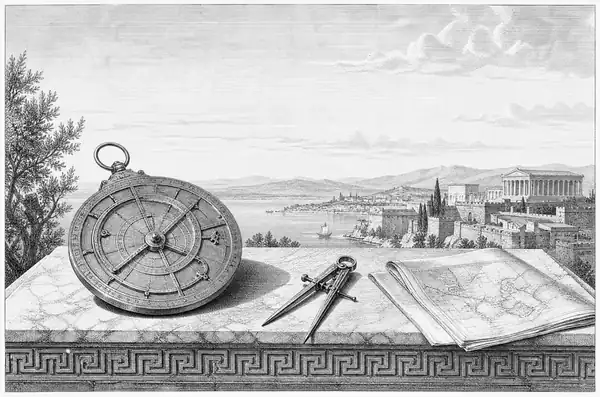
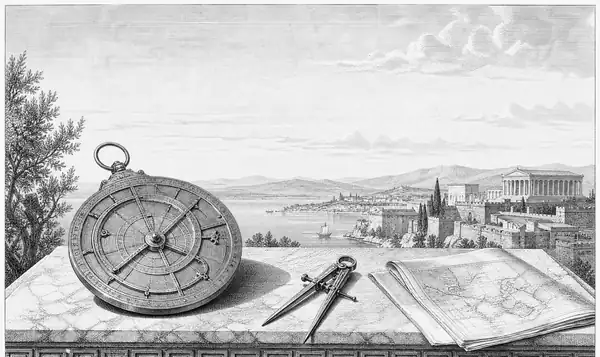
Pass 6: finish work from both pass 5 reviews; snapshot

diff --git a/site/snapshots/pass-06/index.html b/site/snapshots/pass-06/index.html
@@ -12,16 +12,16 @@
 <meta name="twitter:site" content="@mbsdot">
 <meta name="theme-color" content="#F4F0E8" media="(prefers-color-scheme: light)">
 <meta name="theme-color" content="#15130F" media="(prefers-color-scheme: dark)">
-<link rel="icon" href="assets/emblems/mark.webp" type="image/webp">
-<link rel="preload" as="font" type="font/woff2" href="assets/fonts/Fraunces-var.woff2" crossorigin>
-<link rel="preload" as="font" type="font/woff2" href="assets/fonts/InstrumentSans-var.woff2" crossorigin>
-<style>@font-face{font-family:'Fraunces';font-style:normal;font-weight:300 700;font-display:swap;src:url(assets/fonts/Fraunces-var.woff2) format('woff2')}
-@font-face{font-family:'Fraunces';font-style:italic;font-weight:300 700;font-display:swap;src:url(assets/fonts/Fraunces-Italic-var.woff2) format('woff2')}
-@font-face{font-family:'Instrument Sans';font-style:normal;font-weight:400 700;font-display:swap;src:url(assets/fonts/InstrumentSans-var.woff2) format('woff2')}
-@font-face{font-family:'Instrument Sans';font-style:italic;font-weight:400 700;font-display:swap;src:url(assets/fonts/InstrumentSans-Italic-var.woff2) format('woff2')}
-@font-face{font-family:'JetBrains Mono';font-style:normal;font-weight:100 800;font-display:swap;src:url(assets/fonts/JetBrainsMono-var.woff2) format('woff2')}</style>
-<link rel="preload" as="image" href="assets/emblems/mark.webp" fetchpriority="high">
-<link rel="preload" as="image" href="assets/plates/hero.webp" imagesrcset="assets/plates/hero-600.webp 600w, assets/plates/hero.webp 900w" imagesizes="(max-width: 759px) 110vw, 760px">
+<link rel="icon" href="../../assets/emblems/mark.webp" type="image/webp">
+<link rel="preload" as="font" type="font/woff2" href="../../assets/fonts/Fraunces-var.woff2" crossorigin>
+<link rel="preload" as="font" type="font/woff2" href="../../assets/fonts/InstrumentSans-var.woff2" crossorigin>
+<style>@font-face{font-family:'Fraunces';font-style:normal;font-weight:300 700;font-display:swap;src:url(../../assets/fonts/Fraunces-var.woff2) format('woff2')}
+@font-face{font-family:'Fraunces';font-style:italic;font-weight:300 700;font-display:swap;src:url(../../assets/fonts/Fraunces-Italic-var.woff2) format('woff2')}
+@font-face{font-family:'Instrument Sans';font-style:normal;font-weight:400 700;font-display:swap;src:url(../../assets/fonts/InstrumentSans-var.woff2) format('woff2')}
+@font-face{font-family:'Instrument Sans';font-style:italic;font-weight:400 700;font-display:swap;src:url(../../assets/fonts/InstrumentSans-Italic-var.woff2) format('woff2')}
+@font-face{font-family:'JetBrains Mono';font-style:normal;font-weight:100 800;font-display:swap;src:url(../../assets/fonts/JetBrainsMono-var.woff2) format('woff2')}</style>
+<link rel="preload" as="image" href="../../assets/emblems/mark.webp" fetchpriority="high">
+<link rel="preload" as="image" href="../../assets/plates/hero.webp" imagesrcset="../../assets/plates/hero-600.webp 600w, ../../assets/plates/hero.webp 900w" imagesizes="(max-width: 759px) 110vw, 760px">
 <link rel="stylesheet" href="styles.css">
 <!-- source: github.com/mbs5/portfolio -->
 </head>
@@ -42,12 +42,12 @@
 
 <main id="top">
 <section class="hero plate-sec" data-plate="hero">
-  <img class="plate" src="assets/plates/hero.webp" srcset="assets/plates/hero-600.webp 600w, assets/plates/hero.webp 900w" sizes="(max-width: 759px) 110vw, 760px" width="900" height="536" alt="" aria-hidden="true" decoding="async">
+  <img class="plate" src="../../assets/plates/hero.webp" srcset="../../assets/plates/hero-600.webp 600w, ../../assets/plates/hero.webp 900w" sizes="(max-width: 759px) 110vw, 760px" width="900" height="536" alt="" aria-hidden="true" decoding="async">
   <div class="wrap">
     <div class="hero-grid">
       <div>
         <div class="namerow">
-          <div class="emblem emblem-s" aria-hidden="true"><pre></pre><img src="assets/emblems/mark.webp" width="560" height="560" alt="" fetchpriority="high" decoding="async"></div>
+          <div class="emblem emblem-s" aria-hidden="true"><pre></pre><img src="../../assets/emblems/mark.webp" width="560" height="560" alt="" fetchpriority="high" decoding="async"></div>
           <span class="k name">Muhammad Bin Sohail</span>
         </div>
         <h1>I build the system <em>once</em>, then let brands, farms and families wear&nbsp;it.</h1>
@@ -58,14 +58,14 @@
         </div>
         <p class="status"><b>Now:</b> open to product engineering roles in commerce, infrastructure and applied AI.</p>
       </div>
-      <div class="emblem emblem-l" aria-hidden="true"><pre></pre><img src="assets/emblems/mark.webp" width="560" height="560" alt="" decoding="async"></div>
+      <div class="emblem emblem-l" aria-hidden="true"><pre></pre><img src="../../assets/emblems/mark.webp" width="560" height="560" alt="" decoding="async"></div>
     </div>
   </div>
 </section>
 
 
 <section class="sec plate-sec" id="peptiful" data-plate="peptiful">
-  <img class="plate" src="assets/plates/peptiful.webp" width="900" height="596" alt="" aria-hidden="true" loading="lazy" decoding="async">
+  <img class="plate" src="../../assets/plates/peptiful.webp" width="900" height="596" alt="" aria-hidden="true" loading="lazy" decoding="async">
   <div class="wrap">
     <div class="sec-head reveal"><span class="k">01</span><h2>Peptiful</h2></div>
     <div class="feature reveal">
@@ -105,7 +105,7 @@
 </section>
 
 <section class="sec plate-sec" id="storekit" data-plate="storekit">
-  <img class="plate" src="assets/plates/storekit.webp" width="900" height="596" alt="" aria-hidden="true" loading="lazy" decoding="async">
+  <img class="plate" src="../../assets/plates/storekit.webp" width="900" height="596" alt="" aria-hidden="true" loading="lazy" decoding="async">
   <div class="wrap">
     <div class="sec-head reveal"><span class="k">02</span><h2>StoreKit</h2></div>
     <div class="feature reveal">
@@ -129,7 +129,7 @@
           <a role="listitem" class="sw" style="--c:#81ae23;--g:#0e0e0e" href="https://nucleus-peptides-two.vercel.app" target="_blank" rel="noopener"><span class="chip"><i></i></span><b>Nucleus <span class="arr">↗</span></b><small>lime on black</small></a>
           <a role="listitem" class="sw" style="--c:#91285e;--g:#232326" href="https://vector-peptides-beta.vercel.app" target="_blank" rel="noopener"><span class="chip"><i></i></span><b>Vector <span class="arr">↗</span></b><small>magenta on graphite</small></a>
         </div>
-        <div class="vials" aria-label="Three of the 114 logo-locked product renders"><img src="assets/work/vials/vanta.webp" width="640" height="640" alt="Vanta Bio vial render with the brand mark on the glass" loading="lazy" decoding="async"><img src="assets/work/vials/caldera.webp" width="640" height="640" alt="Caldera Peptides vial render" loading="lazy" decoding="async"><img src="assets/work/vials/nucleus.webp" width="640" height="640" alt="Nucleus vial render" loading="lazy" decoding="async"></div>
+        <div class="vials" aria-label="Three of the 114 logo-locked product renders"><img src="../../assets/work/vials/vanta.webp" width="640" height="640" alt="Vanta Bio vial render with the brand mark on the glass" loading="lazy" decoding="async"><img src="../../assets/work/vials/caldera.webp" width="640" height="640" alt="Caldera Peptides vial render" loading="lazy" decoding="async"><img src="../../assets/work/vials/nucleus.webp" width="640" height="640" alt="Nucleus vial render" loading="lazy" decoding="async"></div>
         <pre class="tokens" aria-label="Token contract excerpt"><b>/* @storekit/ui tokens.css, the contract */</b>
 :root {
   --c-brand-500: <span class="v">39 73 203</span>;   <b>/* primary action */</b>
@@ -144,7 +144,7 @@
 </section>
 
 <section class="sec plate-sec" id="operations" data-plate="operations">
-  <img class="plate" src="assets/plates/operations.webp" width="900" height="596" alt="" aria-hidden="true" loading="lazy" decoding="async">
+  <img class="plate" src="../../assets/plates/operations.webp" width="900" height="596" alt="" aria-hidden="true" loading="lazy" decoding="async">
   <div class="wrap">
     <div class="sec-head reveal"><span class="k">03</span><h2>Operations that run themselves</h2></div>
     <div class="feature reveal">
@@ -196,7 +196,7 @@
 </section>
 
 <section class="sec plate-sec" id="healthpedia" data-plate="healthpedia">
-  <img class="plate" src="assets/plates/healthpedia.webp" width="900" height="596" alt="" aria-hidden="true" loading="lazy" decoding="async">
+  <img class="plate" src="../../assets/plates/healthpedia.webp" width="900" height="596" alt="" aria-hidden="true" loading="lazy" decoding="async">
   <div class="wrap">
     <div class="sec-head reveal"><span class="k">04</span><h2>Healthpedia</h2></div>
     <div class="feature reveal">
@@ -232,7 +232,7 @@
 </section>
 
 <section class="sec plate-sec" id="more" data-plate="morework">
-  <img class="plate" src="assets/plates/morework.webp" width="900" height="596" alt="" aria-hidden="true" loading="lazy" decoding="async">
+  <img class="plate" src="../../assets/plates/morework.webp" width="900" height="596" alt="" aria-hidden="true" loading="lazy" decoding="async">
   <div class="wrap">
     <div class="sec-head reveal"><span class="k">05</span><h2>More work</h2></div>
     <ul class="list reveal">
@@ -257,7 +257,7 @@
 </section>
 
 <section class="sec plate-sec" id="how" data-plate="how">
-  <img class="plate" src="assets/plates/how.webp" width="900" height="596" alt="" aria-hidden="true" loading="lazy" decoding="async">
+  <img class="plate" src="../../assets/plates/how.webp" width="900" height="596" alt="" aria-hidden="true" loading="lazy" decoding="async">
   <div class="wrap">
     <div class="sec-head reveal"><span class="k">06</span><h2>How I work</h2></div>
     <div class="how-grid reveal">
@@ -271,7 +271,7 @@
 </main>
 
 <footer class="contact plate-sec" id="contact" data-plate="contact">
-  <img class="plate" src="assets/plates/contact.webp" width="900" height="596" alt="" aria-hidden="true" loading="lazy" decoding="async">
+  <img class="plate" src="../../assets/plates/contact.webp" width="900" height="596" alt="" aria-hidden="true" loading="lazy" decoding="async">
   <div class="wrap">
     <div class="sec-head reveal"><span class="k">07</span><h2>Contact</h2></div>
     <h2 class="ch reveal">If you’re building commerce infrastructure, or a business that should run itself, write to me.</h2>

diff --git a/site/snapshots/pass-06/app.js b/site/snapshots/pass-06/app.js
@@ -1,0 +1,55 @@
+/* portfolio behaviour: emblem engraving, expandable cards, copy email, mobile CTA, reveal fallback */
+(function(){
+  const $=(s,r=document)=>r.querySelector(s), $$=(s,r=document)=>[...r.querySelectorAll(s)];
+  const reduced=matchMedia('(prefers-reduced-motion: reduce)').matches;
+
+  /* 1. Braille engraving that resolves into the mark (desktop only) */
+  const em=[...document.querySelectorAll('.emblem')].find(e=>getComputedStyle(e).display!=='none');
+  document.querySelectorAll('.emblem').forEach(e=>{if(e!==em)e.classList.add('resolved');});
+  if(em){
+    const img=$('img',em), pre=$('pre',em);
+    const run=()=>{
+      if(reduced||em.classList.contains('emblem-s')){em.classList.add('resolved');return;}
+      try{
+        const cols=58, w=cols*2, h=cols*4;
+        const c=document.createElement('canvas'); c.width=w; c.height=h;
+        const ctx=c.getContext('2d',{willReadFrequently:true}); ctx.fillStyle='#fff'; ctx.fillRect(0,0,w,h); ctx.drawImage(img,0,0,w,h);
+        const d=ctx.getImageData(0,0,w,h).data, lum=new Float32Array(w*h);
+        for(let i=0;i<w*h;i++){const l=(.2126*d[i*4]+.7152*d[i*4+1]+.0722*d[i*4+2])/255; lum[i]=Math.min(1,Math.max(0,(l-.5)*1.25+.5));}
+        for(let y=0;y<h;y++)for(let x=0;x<w;x++){const i=y*w+x,o=lum[i],q=o<.5?0:1;lum[i]=q;const e=(o-q)/8;for(const [dx,dy] of [[1,0],[2,0],[-1,1],[0,1],[1,1],[0,2]]){const nx=x+dx,ny=y+dy;if(nx>=0&&nx<w&&ny<h)lum[ny*w+nx]+=e;}}
+        const BITS=[[1,8],[2,16],[4,32],[64,128]]; let s='';
+        for(let y=0;y<h;y+=4){for(let x=0;x<w;x+=2){let code=0x2800;for(let r=0;r<4;r++)for(let k=0;k<2;k++)if(lum[(y+r)*w+x+k]<.5)code|=BITS[r][k];s+=String.fromCharCode(code);}s+='\n';}
+        pre.textContent=s;
+        const fit=()=>{const box=em.getBoundingClientRect().width; pre.style.fontSize='10px'; const probe=document.createElement('span'); probe.textContent='⠿'.repeat(cols); probe.style.cssText='position:absolute;visibility:hidden;white-space:pre;font:inherit;font-size:10px'; pre.appendChild(probe); const adv=probe.getBoundingClientRect().width/cols/10; probe.remove(); const fs=box/cols/(adv||0.6); pre.style.fontSize=fs+'px'; pre.style.lineHeight=(box/(h/4))/fs+'';};
+        fit(); addEventListener('resize',fit,{passive:true});
+        setTimeout(()=>em.classList.add('resolved'),1500);
+      }catch(e){em.classList.add('resolved');}
+    };
+    if(img.complete&&img.naturalWidth)run(); else img.addEventListener('load',run,{once:true}); img.addEventListener('error',()=>em.classList.add('resolved'),{once:true});
+  }
+
+  /* 2. Expandable cards (APG accordion, multi-open, hash deep links) */
+  const setOpen=(card,on,push=true)=>{const btn=$('h3 button',card), panel=$('.panel',card); btn.setAttribute('aria-expanded',on);
+    if(on){panel.hidden=false; requestAnimationFrame(()=>panel.setAttribute('data-open',''));}
+    else{panel.removeAttribute('data-open'); const done=()=>{if(btn.getAttribute('aria-expanded')!=='true')panel.hidden=true;}; reduced?done():panel.addEventListener('transitionend',done,{once:true});}
+    if(push)history.replaceState(null,'',on?'#'+card.id:location.pathname+location.search);};
+  $$('.card').forEach(card=>{const btn=$('h3 button',card); btn.addEventListener('click',()=>setOpen(card,btn.getAttribute('aria-expanded')!=='true'));});
+  const fromHash=()=>{const c=document.getElementById(location.hash.slice(1)); if(c&&c.classList.contains('card')){setOpen(c,true,false); c.scrollIntoView({block:'start'});}};
+  addEventListener('hashchange',fromHash); fromHash();
+  const first=$('.card'); if(first&&!location.hash)setOpen(first,true,false);
+
+  /* 3. Copy email */
+  $$('.copy').forEach(b=>b.addEventListener('click',async()=>{try{await navigator.clipboard.writeText(b.dataset.email); const t=b.textContent; b.textContent='Copied'; $('#live').textContent='Email address copied'; setTimeout(()=>{b.textContent=t;},1800);}catch(e){location.href='mailto:'+b.dataset.email;}}));
+
+  /* 4. Mobile CTA bar: show after the first two sections, hide on the contact block */
+  const bar=$('.ctabar'); if(bar){document.body.classList.add('has-bar'); let early=true, contactVis=false; const upd=()=>bar.classList.toggle('show',!early&&!contactVis);
+    new IntersectionObserver(([e])=>{early=e.isIntersecting||e.boundingClientRect.top>0;upd();},{threshold:0}).observe($('#operations'));
+    new IntersectionObserver(([e])=>{contactVis=e.isIntersecting;upd();},{threshold:0,rootMargin:'0px 0px -40% 0px'}).observe($('#contact'));}
+
+  /* 5. Reveal fallback for browsers without scroll-driven animations */
+  if(!CSS.supports('animation-timeline: view()')&&!reduced){
+    $$('.reveal').forEach(el=>{el.style.opacity='0';el.style.transform='translateY(14px)';el.style.transition='opacity .8s cubic-bezier(.23,1,.32,1),transform .8s cubic-bezier(.23,1,.32,1)';});
+    const io=new IntersectionObserver(es=>es.forEach(e=>{if(e.isIntersecting){e.target.style.opacity='1';e.target.style.transform='none';io.unobserve(e.target);}}),{threshold:.12});
+    $$('.reveal').forEach(el=>io.observe(el));
+  }
+})();

diff --git a/site/snapshots/index.html b/site/snapshots/index.html
@@ -1,6 +1,7 @@
 <!DOCTYPE html><html lang="en"><head><meta charset="utf-8"><meta name="viewport" content="width=device-width,initial-scale=1"><title>Snapshots</title>
 <style>body{font:17px/1.5 Georgia,serif;background:#F4F0E8;color:#1C1A17;max-width:760px;margin:0 auto;padding:32px 20px}h1{font-weight:400}li{margin:10px 0}a{color:#6E5230}small{color:#6B655C;display:block}</style></head>
 <body><h1>Portfolio snapshots</h1><p>One frozen copy per pass of the improvement loop, newest first. Each has the page as it was plus mobile and desktop frames.</p><ul id="list">
+<li><a href="pass-06/">Pass 6</a> <small>2026-10-05. Finish work from both pass 5 reviews: propagation lines, truthful How I work, token target line, mobile dead space, vial crop, hero band, aligned blueprint. <a href="pass-06/shots/m00.jpg">mobile</a> · <a href="pass-06/shots/d00.jpg">desktop</a> · <a href="pass-06/NOTES.md">notes</a></small></li>
 <li><a href="pass-05/">Pass 5</a> <small>2026-10-05. After both pass 4 reviews: white-disc fix, two-tone swatches with vial renders, overlap fix, mobile plate masks, ownership lines split, How I work plate, GitHub in the footer. <a href="pass-05/shots/m00.jpg">mobile</a> · <a href="pass-05/shots/d00.jpg">desktop</a> · <a href="pass-05/NOTES.md">notes</a></small></li>
 <li><a href="pass-04/">Pass 4</a> <small>2026-10-05. MBS feedback: Peptiful first, Fraunces + Instrument Sans, seven engraved plates behind sections, no screenshots, no archive, no Bismillah, actionable footer. <a href="pass-04/shots/m00.jpg">mobile</a> · <a href="pass-04/shots/d00.jpg">desktop</a> · <a href="pass-04/NOTES.md">notes</a></small></li>
 <li><a href="pass-03/">Pass 3</a> <small>2026-10-05. After Fable 5.1 and Opus reviews of pass 2: real small caps, honest hero and StoreKit claims, ownership lines, Peptiful mechanism diagram, accordion fixes, phones cropped, diagrams scroll on phones. <a href="pass-03/shots/m00.jpg">mobile</a> · <a href="pass-03/shots/d00.jpg">desktop</a> · <a href="pass-03/NOTES.md">notes</a></small></li>

diff --git a/PROGRESS.md b/PROGRESS.md
@@ -10,7 +10,8 @@ Loop: learn, build, audit, ship. Every pass is reviewed by a different model fro
 
 | 3 | 05-10 06:10 | Real small caps from the source variable font, honest hero ("I build the system once, then let eight brands wear it"), StoreKit claims aligned to facts, ownership lines, $12M into prose, Peptiful mechanism diagram, accordion a11y fixes and Longevity OS first, phones cropped, diagrams scroll on phones, links in roman, old-style numerals, grain into background, engraving measures glyph advance | Fable: 7 / 8 / 7. Opus: 8 / 8 / 8 | 91 / 97 / 100 / 100, LCP 2.9s, CLS 0 |
 | 4 | 05-10 07:30 | MBS feedback pass. Peptiful first. Fraunces + Instrument Sans + JetBrains Mono. Seven engraved plates behind sections (astrolabe, Cordoba market, Greek stoa, Punjab farm, Baghdad study, House of Wisdom, Pharos). All screenshots out: swatch cards for StoreKit, a day ledger for EggFlow. Archive, Peptides card, Bismillah, star removed. Footer is three actions. Copy matches the StoreKit repo truth. | Fable: 7 / 7 / 8. Opus: 8 / 8 / 7 | 92 / 100 / 100 / 100, LCP 3.2s, CLS 0 |
-| 5 | 05-10 08:40 | Both pass 4 reviews applied: white-disc fix, two-tone swatches plus three vial renders as proof, overlap and blueprint scale fixed, radial mobile plate masks, ownership lines split mono plus sans, optical sizes corrected, How I work plate, GitHub as third footer action, families not clinics, frieze removed | pending | pending |
+| 5 | 05-10 08:40 | Both pass 4 reviews applied: white-disc fix, two-tone swatches plus three vial renders as proof, overlap and blueprint scale fixed, radial mobile plate masks, ownership lines split mono plus sans, optical sizes corrected, How I work plate, GitHub as third footer action, families not clinics, frieze removed | Fable: 8 / 8 / 8. Opus: 8 / 8 / 8 | 89 / 100 / 100 / 100, LCP 3.4s |
+| 6 | 05-10 09:30 | Finish work from both pass 5 reviews: solid propagation lines in the Peptiful diagram, truthful How I work, token excerpt marked as a target, mobile dead space, Caldera vial padded, hero band cropped, blueprint aligned, fonts inlined, responsive hero plate | pending | pending |
 
 ## What the critics changed my mind about
 - Pass 1 to 2: I had treated "classical" as a license for ornament. The critic counted seven ornaments (numerals, friezes, star, wreath, Bismillah, Cinzel labels, scramble) and asked for two. The page got calmer and more credible with Garamond small caps doing the work Cinzel used to do.

diff --git a/site/snapshots/pass-06/NOTES.md b/site/snapshots/pass-06/NOTES.md
@@ -1,0 +1,2 @@
+Pass 6, 2026-10-05 09:30 EDT. Driven by the Opus (8 / 8 / 8) and Fable 5.1 (8 / 8 / 8) reviews of pass 5. Both called the page close to done; this pass is finish work.
+Changed: section numbers no longer wrap on phones; How I work says "EggFlow and Peptiful are in daily use; Healthpedia runs for my family" (within facts) and keeps the hero echo in line four; the token excerpt's last line is now "target: components read these, not hex"; the repeated "Eight demo brands show the range" sentence cut; Healthpedia says "Claude or any MCP client"; Peptiful desktop diagram draws solid bronze return lines with arrowheads to A and C and the sublabels read "now reads 41" in ink; portrait Peptiful diagram trimmed so there is no dead space on phones; blueprint aligned left with the caption and the phone fade widened; the Caldera vial render padded instead of cropped so the cap shows; the Greek-key band baked into the bottom of the hero plate cropped off and the dead meander code removed; swatch arrows pinned top-right; font-face rules inlined and the hero plate served at 600px on phones; the Peptiful link reads "drawn in the Agriful story" since that is where it lands.
